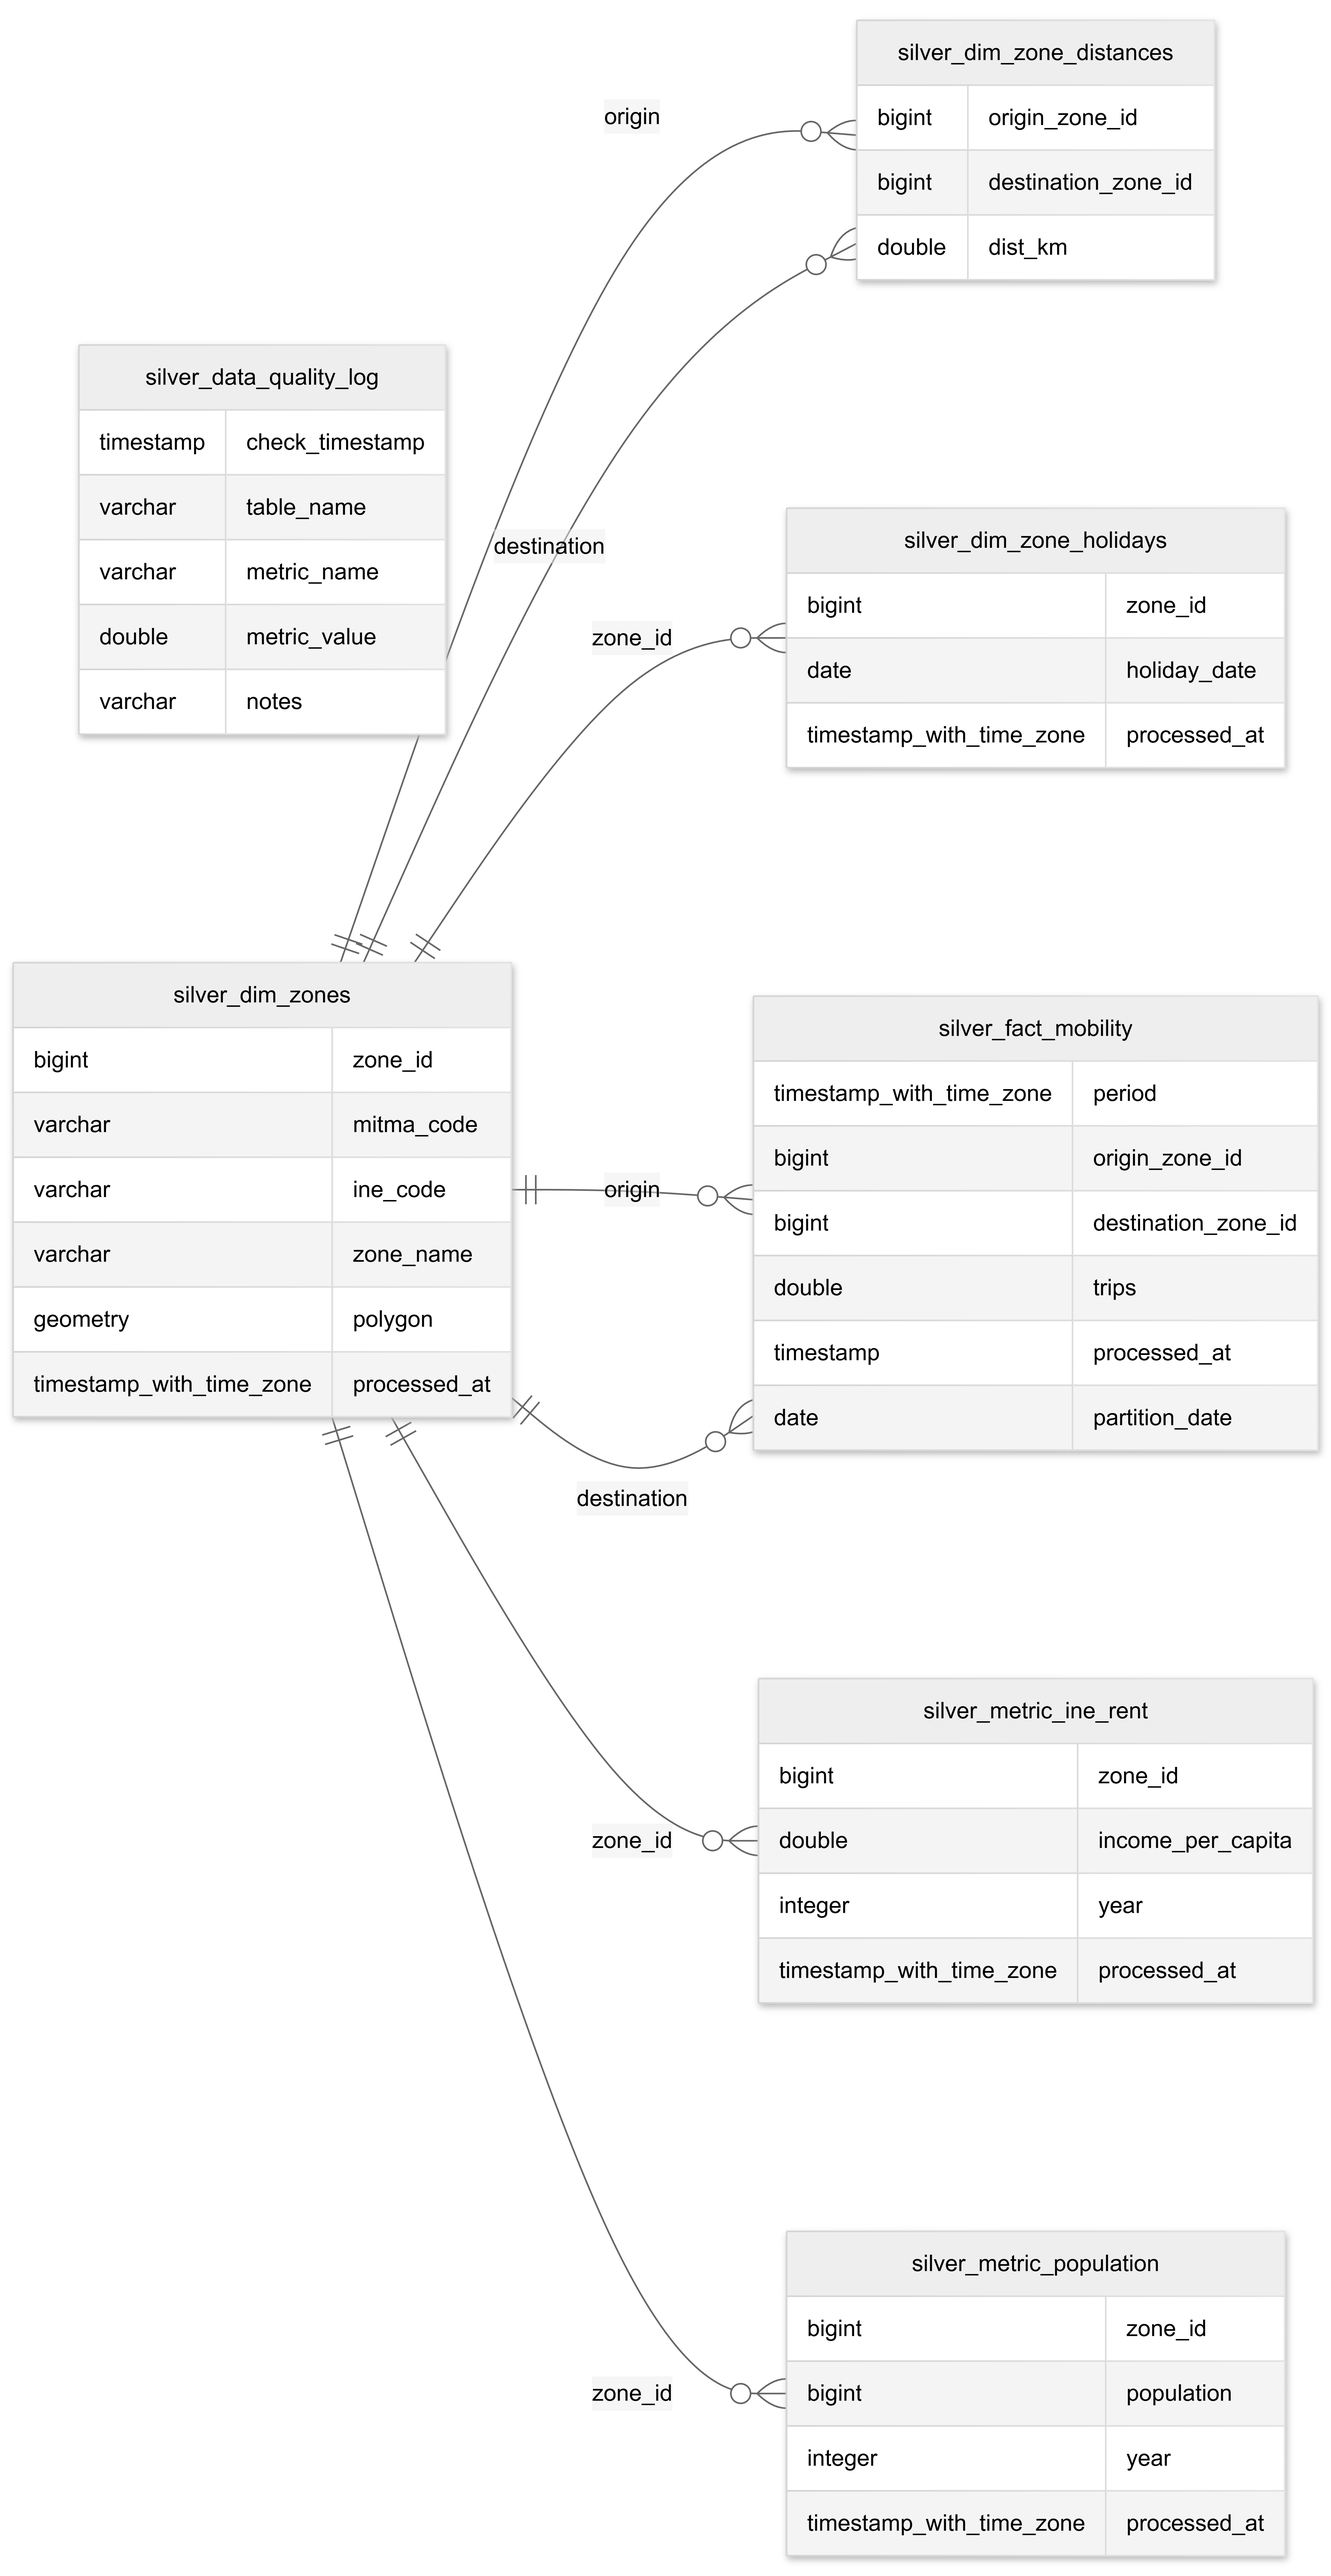
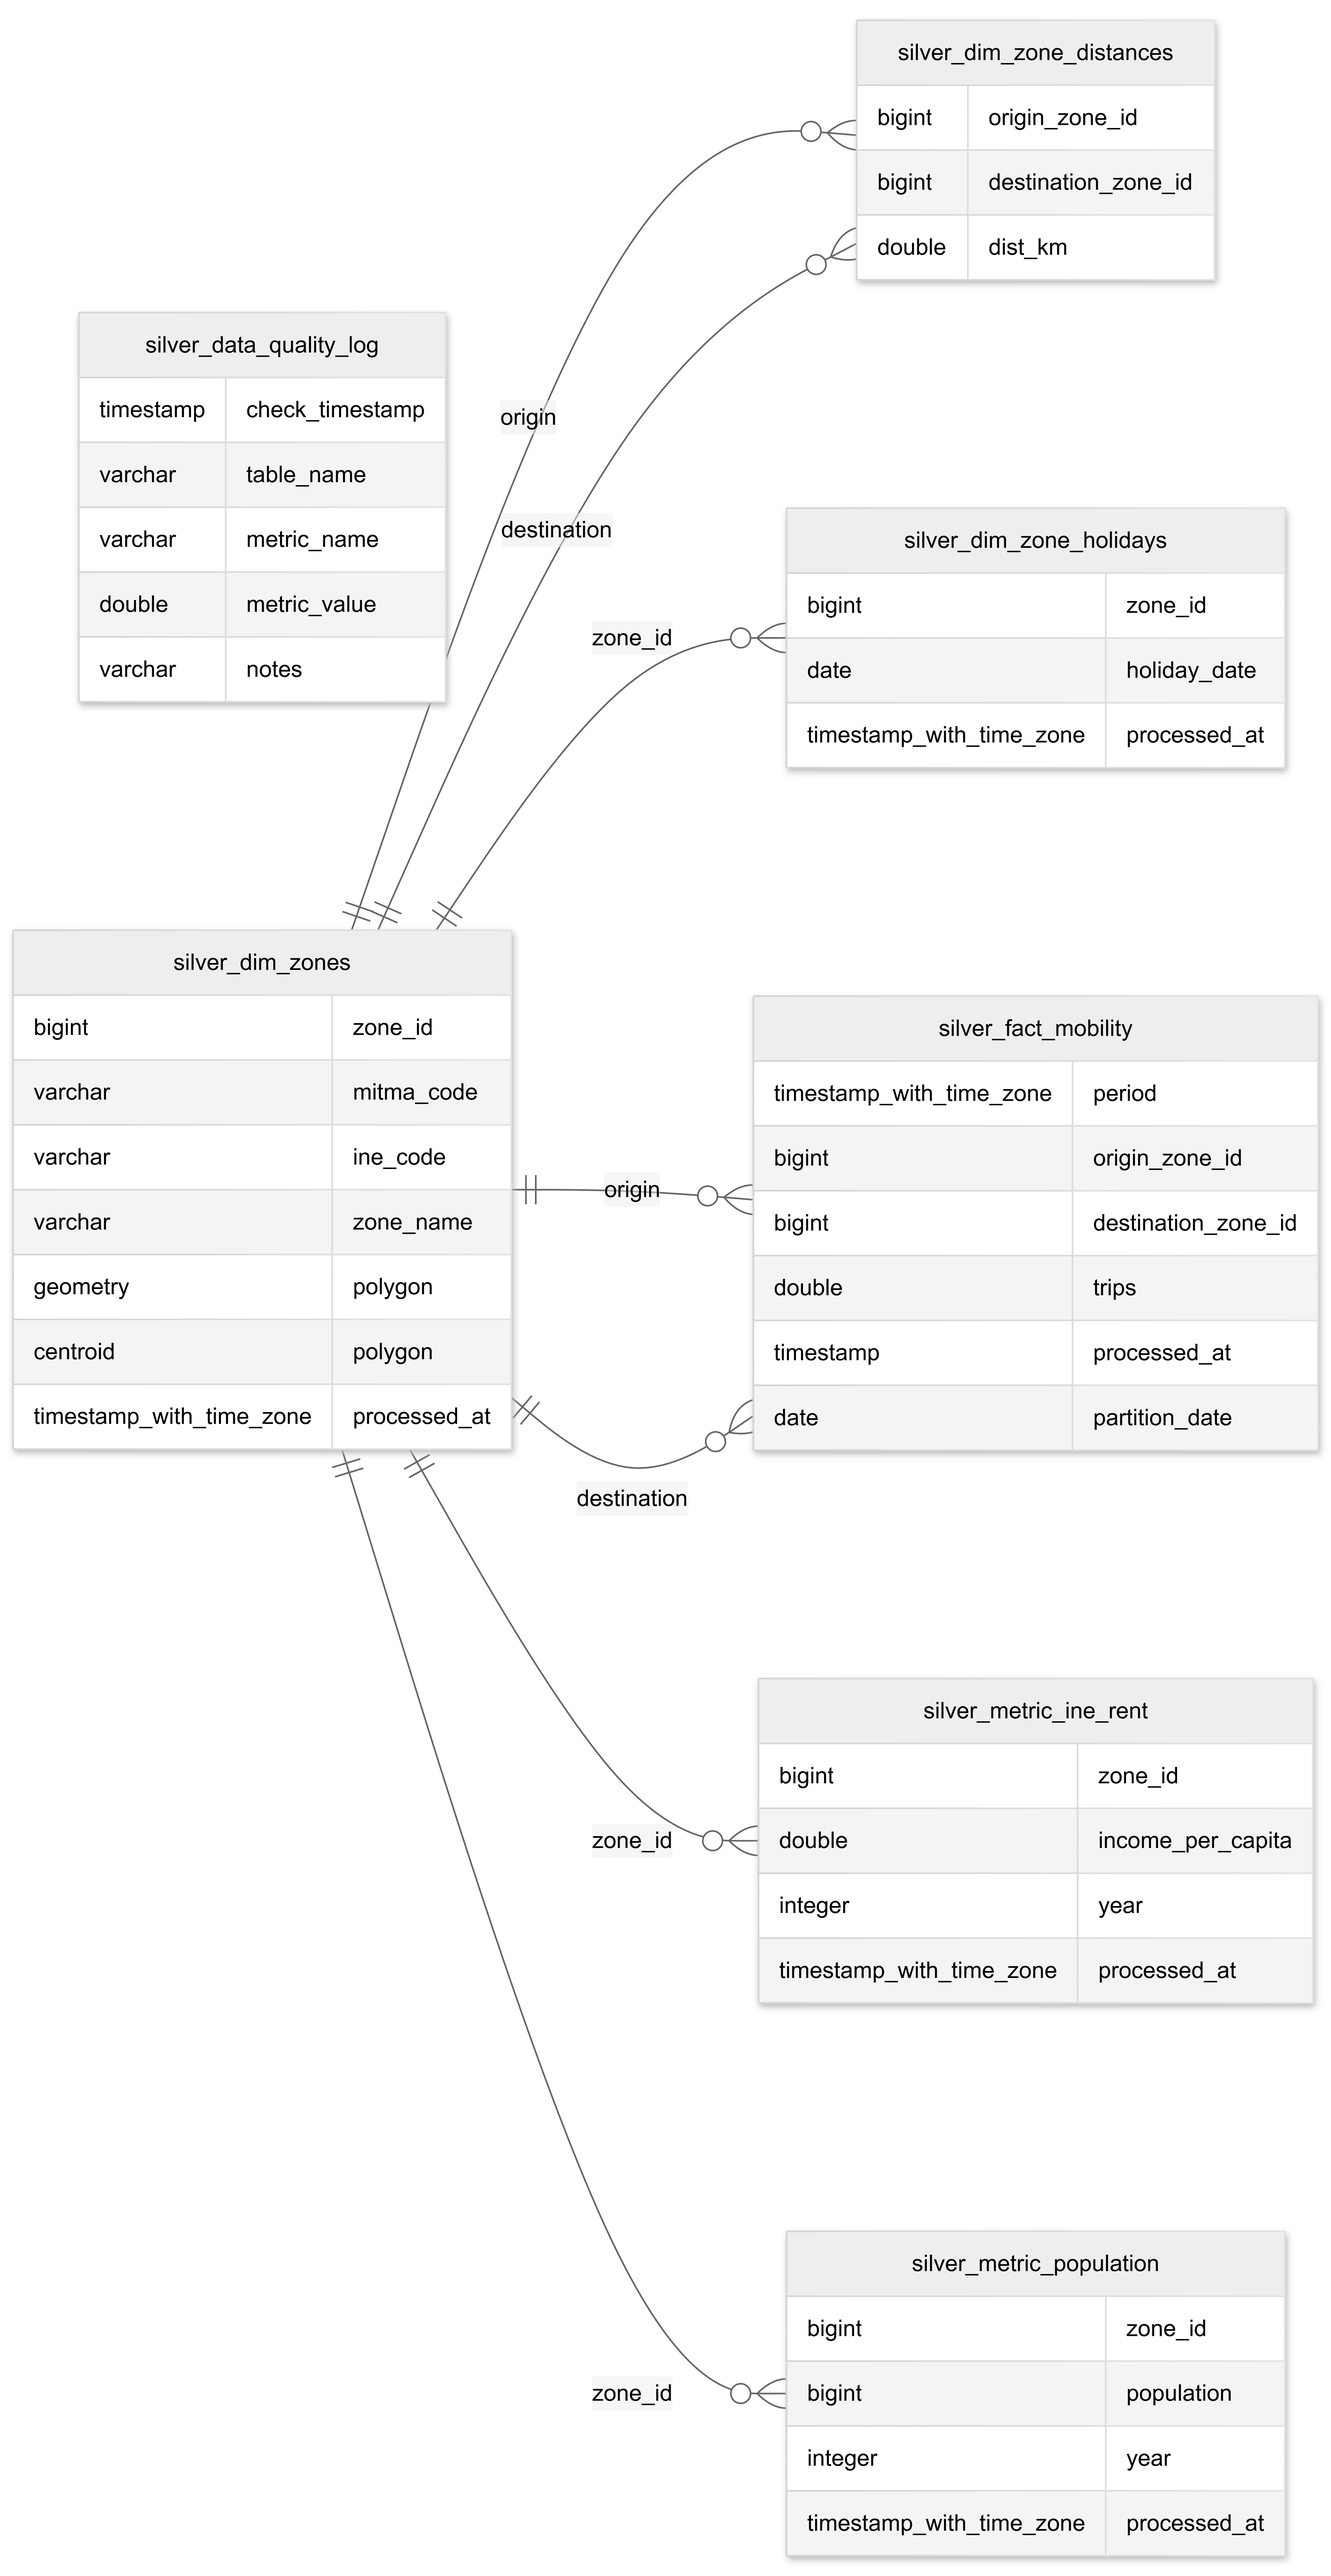
feat: centroid precalculated

diff --git a/airflow/dags/x_audit.py b/airflow/dags/x_audit.py
@@ -1,0 +1,88 @@
+# @task
+#     def audit_dimensions():
+#         logging.info("🕵 Starting Data Quality Audit for Dimensions.")
+
+#         # Helper to insert into log
+#         def log_metric(table, metric, value, notes=''):
+#             safe_val = value if value is not None else 0.0
+#             query = f"""
+#                 INSERT INTO lakehouse.silver.data_quality_log 
+#                 VALUES (CURRENT_TIMESTAMP, '{table}', '{metric}', {safe_val}, '{notes}')
+#             """
+#             con.execute(query)
+#             logging.info(f"   -> Audited {table}: {metric} = {safe_val}")
+
+#         with get_connection() as con:
+#             # 1. Zone Checks
+#             missing_ine = con.execute("SELECT COUNT(*) FROM lakehouse.silver.dim_zones WHERE ine_code IS NULL").fetchone()[0]
+#             log_metric('dim_zones', 'zones_missing_ine_code', missing_ine)
+
+#             missing_geo = con.execute("SELECT COUNT(*) FROM lakehouse.silver.dim_zones WHERE polygon IS NULL").fetchone()[0]
+#             log_metric('dim_zones', 'zones_missing_geo_coords', missing_geo)
+            
+#             zone_count = con.execute("SELECT COUNT(*) FROM lakehouse.silver.dim_zones").fetchone()[0]
+#             log_metric('dim_zones', 'total_zones', zone_count)
+
+#             # 2. Population Checks
+#             pop_sum = con.execute("SELECT SUM(population) FROM lakehouse.silver.metric_population").fetchone()[0]
+#             log_metric('metric_population', 'total_population_sum', pop_sum, 'Spain Total')
+
+#             avg_rent = con.execute("SELECT AVG(income_per_capita) FROM lakehouse.silver.metric_ine_rent").fetchone()[0]
+#             log_metric('metric_ine_rent', 'avg_income_per_capita', avg_rent, 'National Avg')
+            
+#             rent_coverage = con.execute("""
+#                 SELECT (SELECT COUNT(DISTINCT zone_id) FROM lakehouse.silver.metric_ine_rent) * 100.0 / NULLIF((SELECT COUNT(*) FROM lakehouse.silver.dim_zones), 0)
+#             """).fetchone()[0]
+#             log_metric('metric_ine_rent', 'income_data_coverage_pct', rent_coverage)
+        
+#         logging.info("🕵 Dimensions audited.")
+
+
+
+# @task
+#     def audit_batch_results(**context):
+#         logging.info("🕵 Starting Batch Quality Audit...")
+        
+#         # 1. Get Range from Params
+#         conf = context['dag_run'].conf or {}
+#         params = context['params']
+#         start_str = conf.get('start_date') or params['start_date']
+#         end_str = conf.get('end_date') or params['end_date']
+        
+#         logging.info(f"Auditing range: {start_str} to {end_str}")
+
+#         with get_connection() as con:
+#             # 2. Calculate Aggregates for the whole batch
+#             # We query the Silver table for the date range
+#             stats = con.execute(f"""
+#                 SELECT 
+#                     COUNT(*) as total_rows,
+#                     SUM(trips) as total_trips,
+#                     COUNT(DISTINCT partition_date) as days_loaded,
+#                     -- Check for NULL zones (Data Quality Indicator)
+#                     COUNT(*) FILTER (WHERE origin_zone_id IS NULL OR destination_zone_id IS NULL) as bad_rows
+#                 FROM lakehouse.silver.fact_mobility
+#                 WHERE partition_date BETWEEN strptime('{start_str}', '%Y%m%d') AND strptime('{end_str}', '%Y%m%d')
+#             """).fetchone()
+            
+#             total_rows = stats[0] or 0
+#             total_trips = stats[1] or 0.0
+#             days_loaded = stats[2] or 0
+#             bad_rows = stats[3] or 0
+            
+#             # 3. Log to Data Quality Table
+#             batch_note = f"Batch: {start_str}-{end_str}"
+            
+#             # Helper to insert
+#             def log_dq(metric, val):
+#                 con.execute(f"INSERT INTO lakehouse.silver.data_quality_log VALUES (CURRENT_TIMESTAMP, 'fact_mobility_batch', '{metric}', {val or 0}, '{batch_note}')")
+
+#             log_dq('batch_total_rows', total_rows)
+#             log_dq('batch_total_trips', total_trips)
+#             log_dq('batch_days_loaded', days_loaded)
+            
+#             # Calculate % of bad rows
+#             bad_pct = (bad_rows / total_rows * 100.0) if total_rows > 0 else 0.0
+#             log_dq('batch_bad_rows_pct', bad_pct)
+
+#         logging.info(f"📊 Audit Complete. Loaded {days_loaded} days. Trips: {total_trips:,.0f}. Bad Rows: {bad_pct:.2f}%")

diff --git a/airflow/dags/mermaid_DAG.py b/airflow/dags/mermaid_DAG.py
@@ -1,0 +1,90 @@
+import os
+import logging
+import pandas as pd
+from airflow.decorators import dag, task
+from pendulum import datetime
+from utils_db import get_connection
+
+@dag(
+    dag_id="utils_export_mermaid_to_file",
+    start_date=datetime(2023, 1, 1),
+    schedule=None,
+    catchup=False,
+    tags=['utility', 'metadata'],
+)
+def export_mermaid_dag():
+
+    @task
+    def generate_and_save_mermaid():
+        # 1. Get Connection
+        con = get_connection()
+        
+        try:
+            # 2. Extract Metadata
+            query = """
+            SELECT 
+                table_schema, 
+                table_name, 
+                column_name, 
+                data_type
+            FROM information_schema.columns 
+            WHERE table_catalog = 'lakehouse' 
+              AND table_schema IN ('bronze', 'silver', 'gold')
+            ORDER BY table_schema, table_name, ordinal_position;
+            """
+            df = con.execute(query).df()
+            
+            if df.empty:
+                logging.error("No tables found.")
+                return
+
+            # 3. Build Mermaid Syntax
+            mermaid = ["erDiagram"]
+            tables = df.groupby(['table_schema', 'table_name'])
+            
+            for (schema, name), columns in tables:
+                table_id = f"{schema}_{name}"
+                mermaid.append(f"    {table_id} {{")
+                for _, col in columns.iterrows():
+                    dtype = col['data_type'].replace(" ", "_").lower()
+                    cname = col['column_name']
+                    mermaid.append(f"        {dtype} {cname}")
+                mermaid.append("    }")
+
+            # 4. Inferred Relationships
+            mermaid.append("\n    %% Relationships")
+            for (schema, name), columns in tables:
+                table_id = f"{schema}_{name}"
+                cols = columns['column_name'].tolist()
+                if table_id != "silver_dim_zones":
+                    if "zone_id" in cols:
+                        mermaid.append(f"    silver_dim_zones ||--o{{ {table_id} : \"zone_id\"")
+                    if "origin_zone_id" in cols or "org_zone_id" in cols:
+                        mermaid.append(f"    silver_dim_zones ||--o{{ {table_id} : \"origin\"")
+                    if "destination_zone_id" in cols or "dest_zone_id" in cols:
+                        mermaid.append(f"    silver_dim_zones ||--o{{ {table_id} : \"destination\"")
+                if "cluster_id" in cols and table_id != "gold_dim_cluster_assignments":
+                    mermaid.append(f"    gold_dim_cluster_assignments ||--o{{ {table_id} : \"cluster_id\"")
+
+            final_code = "\n".join(mermaid)
+
+            # 5. Save to Local File
+            # In Astro/Docker, /usr/local/airflow is the project root.
+            # Saving to 'include/' makes it easy to find on your host machine.
+            output_path = "/usr/local/airflow/include/lakehouse_schema.mermaid"
+            
+            # Ensure directory exists (if not standard include)
+            os.makedirs(os.path.dirname(output_path), exist_ok=True)
+            
+            with open(output_path, "w") as f:
+                f.write(final_code)
+            
+            logging.info(f"✅ Mermaid code saved to: {output_path}")
+            print(f"FILE CREATED: {output_path}")
+
+        finally:
+            con.close()
+
+    generate_and_save_mermaid()
+
+export_mermaid_dag()

diff --git a/airflow/dags/33_bq3_functional_classification.py b/airflow/dags/33_bq3_functional_classification.py
@@ -179,8 +179,8 @@ def bq3_functional_classification():
                     f.retention_rate,
                     f.internal_trips + f.inflow + f.outflow as total_activity,
                     -- Transformación de coordenadas para Kepler (centros de los municipios)
-                    ST_X(ST_Transform(ST_Centroid(m.polygon), 'EPSG:25830', 'OGC:CRS84')) as lon,
-                    ST_Y(ST_Transform(ST_Centroid(m.polygon), 'EPSG:25830', 'OGC:CRS84')) as lat,
+                    ST_X(ST_Transform(m.centroid, 'EPSG:25830', 'OGC:CRS84')) as lon,
+                    ST_Y(ST_Transform(m.centroid, 'EPSG:25830', 'OGC:CRS84')) as lat,
                     ST_AsGeoJSON(
                         ST_Transform(m.polygon, 'EPSG:25830', 'OGC:CRS84')
                     ) AS geometry
